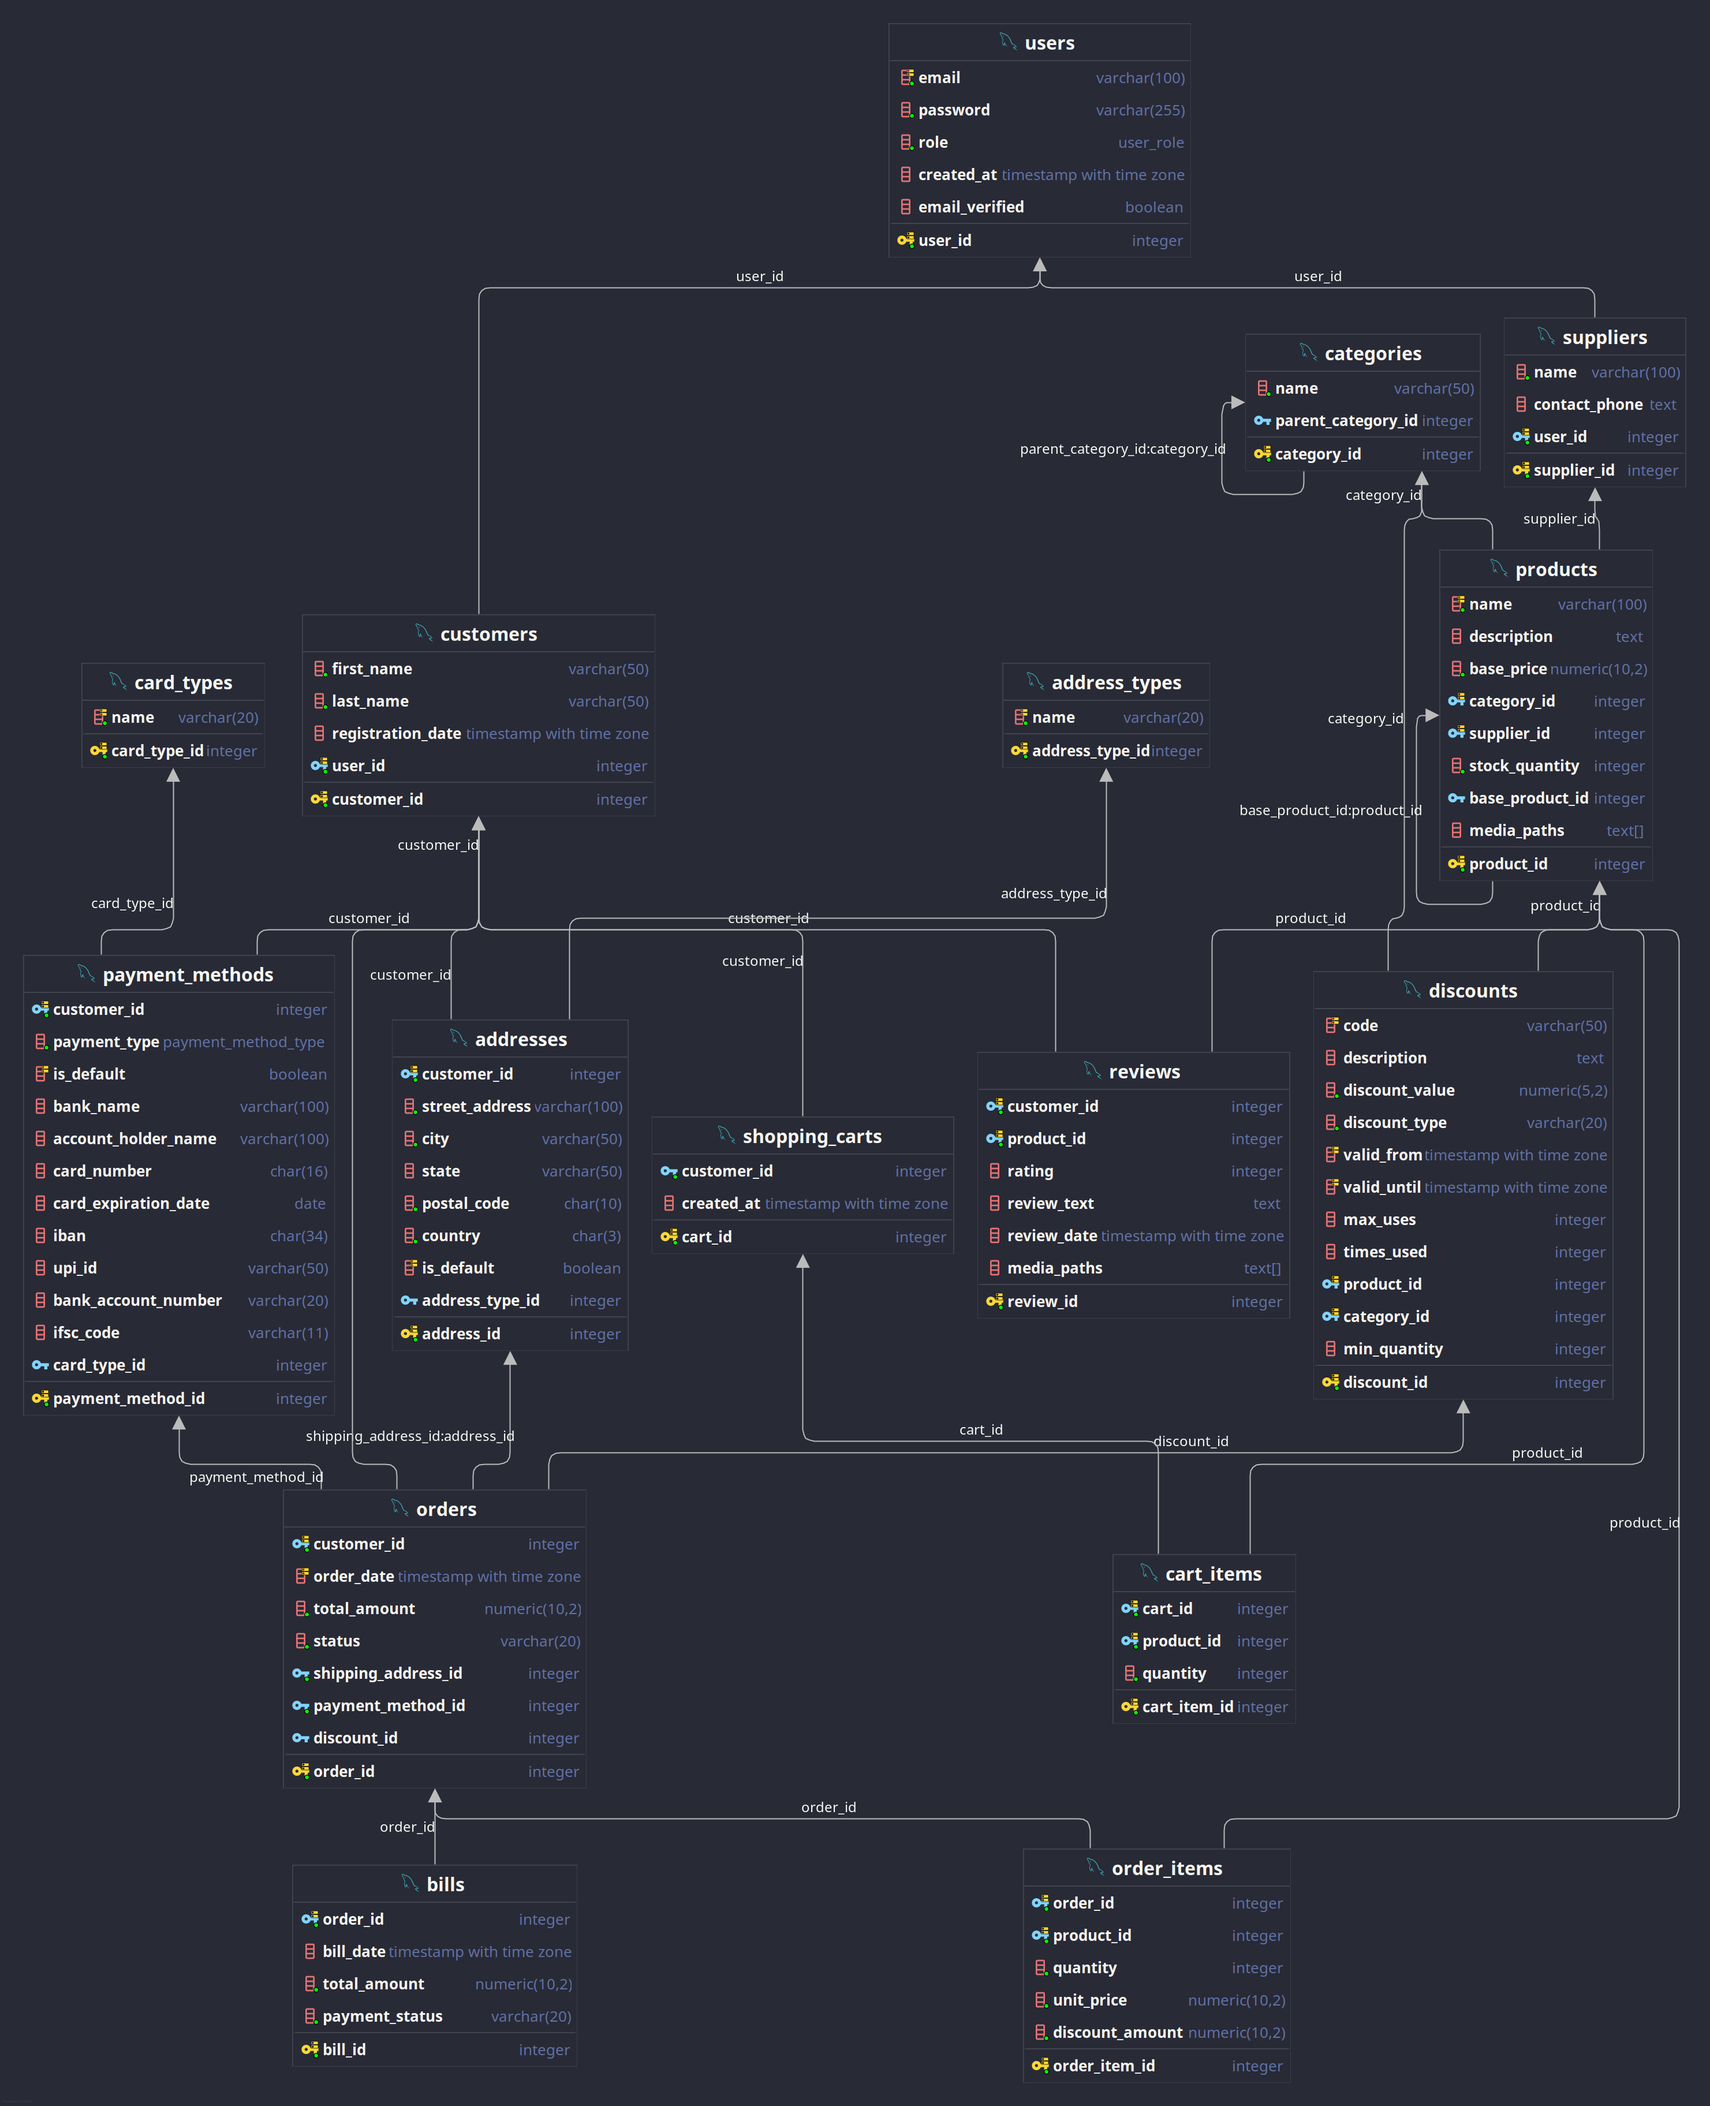
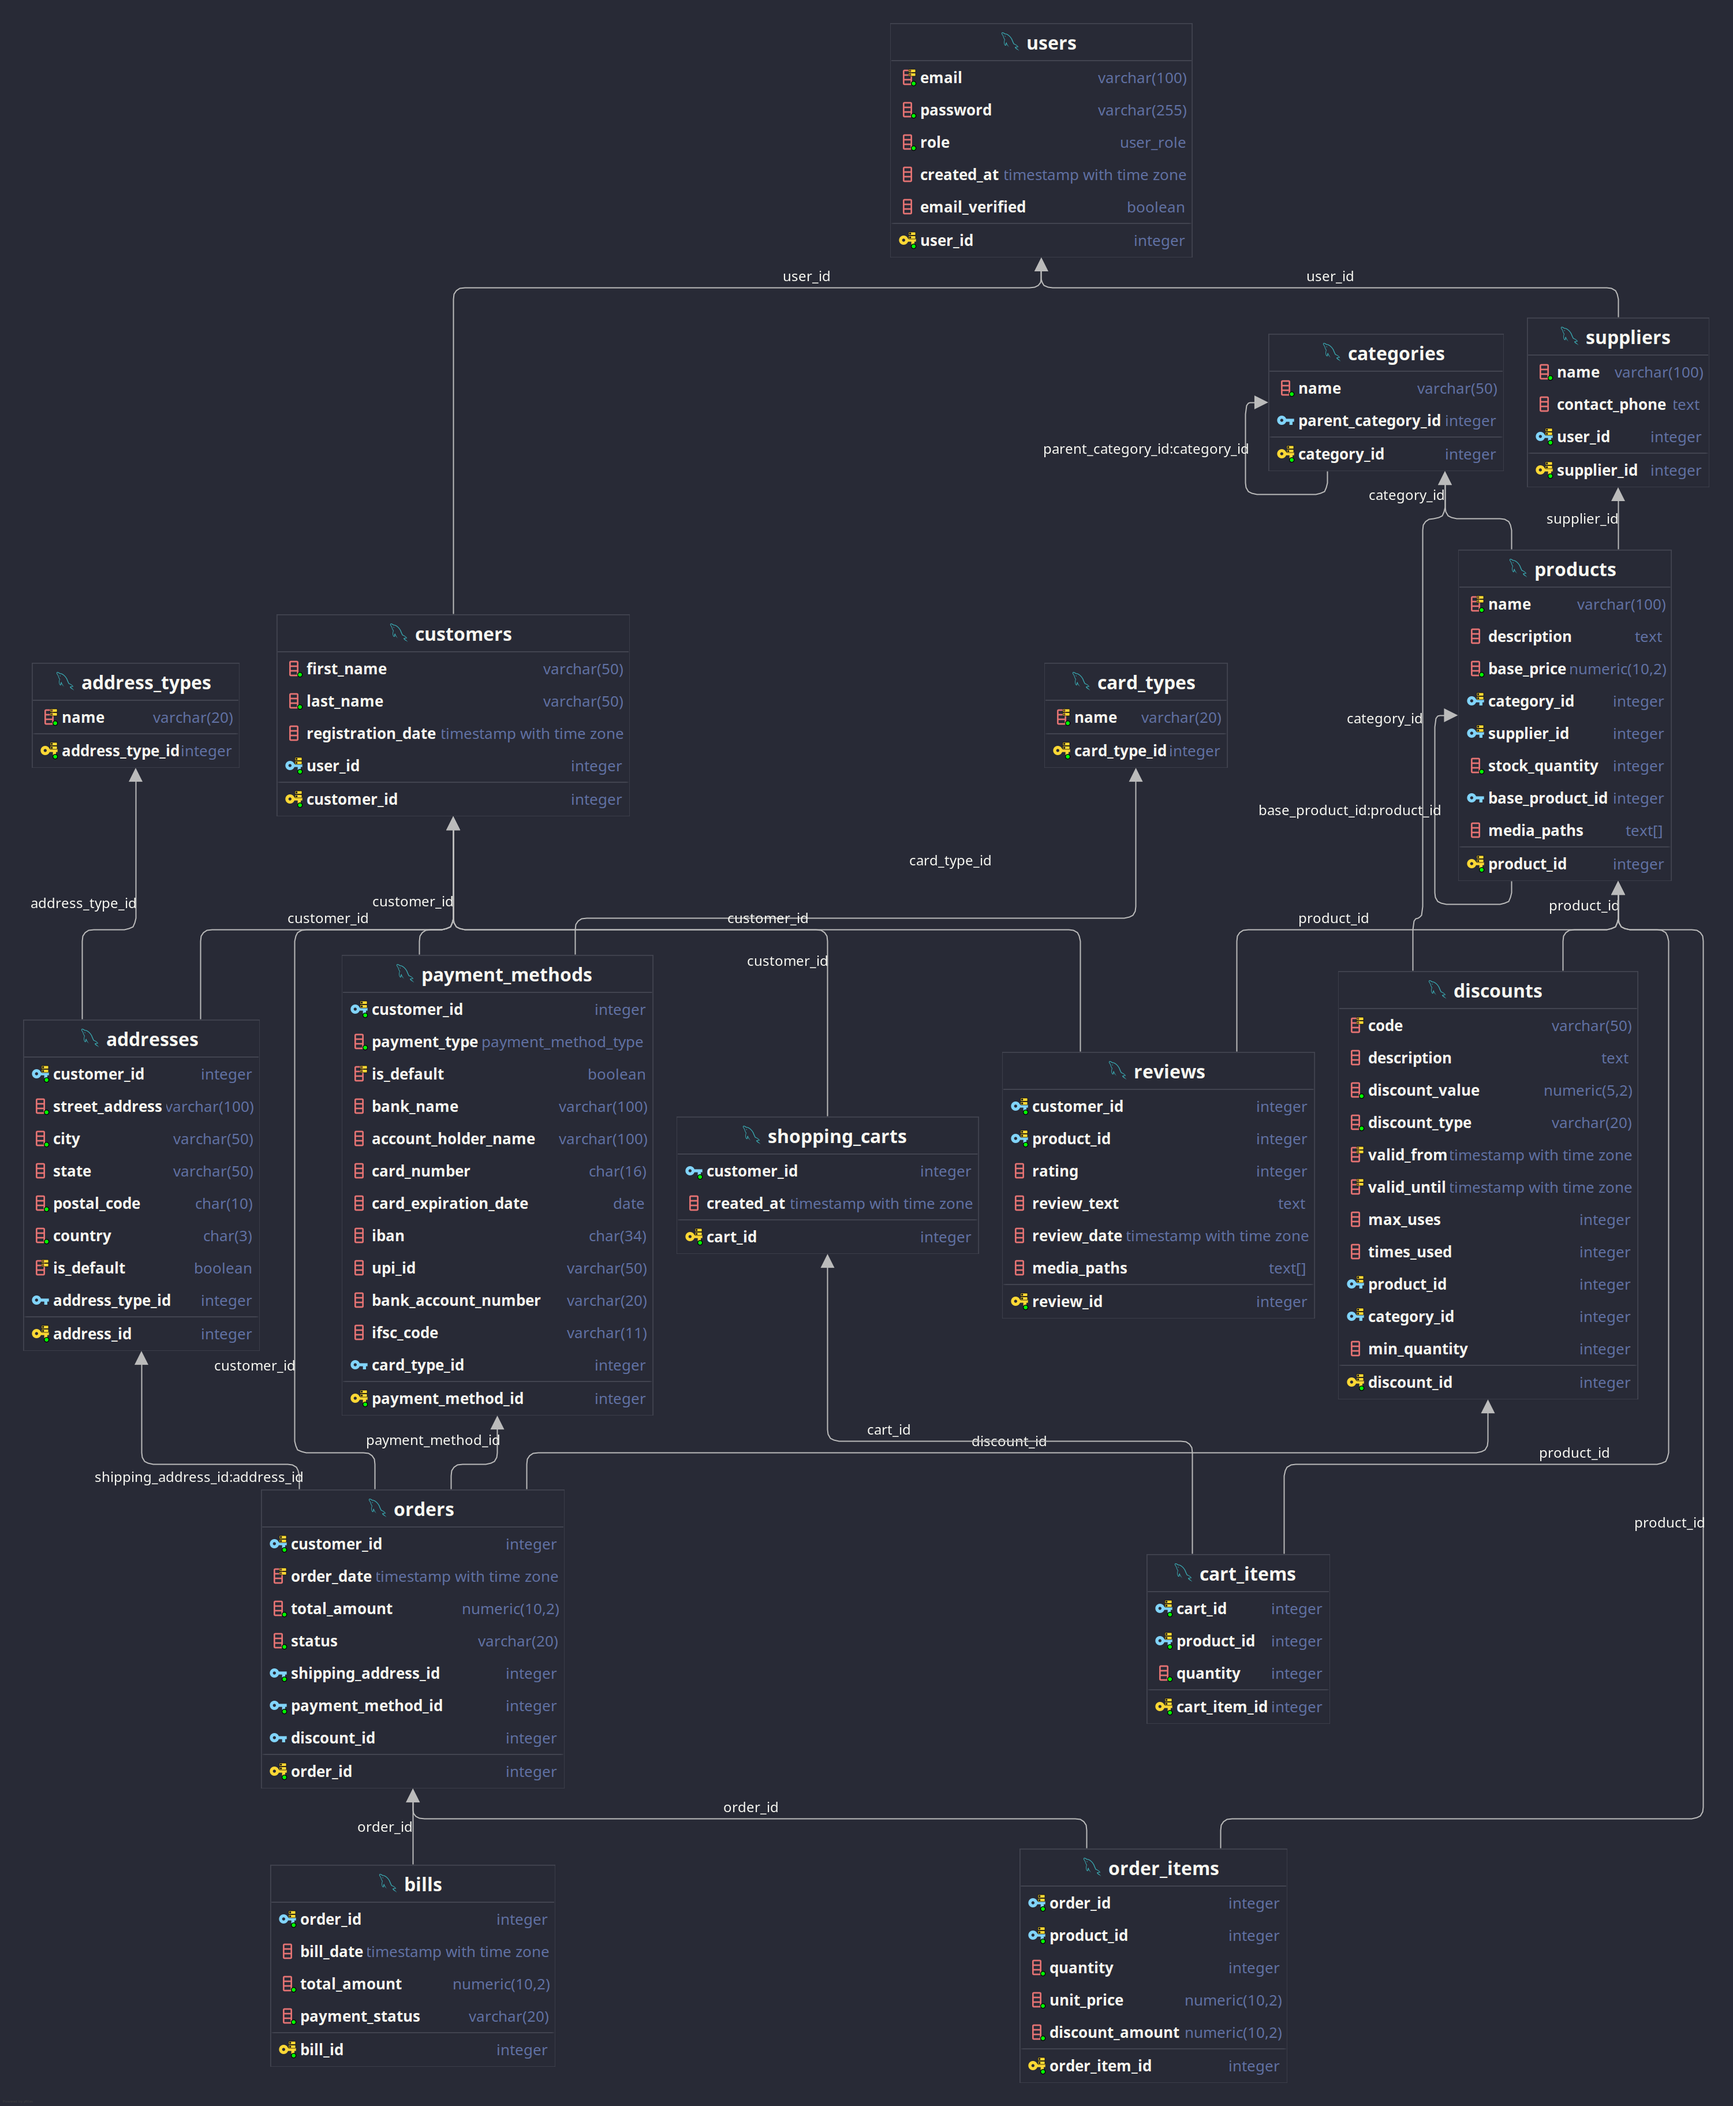
schema: minor changes to database schema

diff --git a/api-server/src/entity/customers.rs b/api-server/src/entity/customers.rs
@@ -20,7 +20,7 @@ pub enum Relation {
     Addresses,
     #[sea_orm(has_many = "super::orders::Entity")]
     Orders,
-    #[sea_orm(has_many = "super::payment_methods::Entity")]
+    #[sea_orm(has_one = "super::payment_methods::Entity")]
     PaymentMethods,
     #[sea_orm(has_many = "super::reviews::Entity")]
     Reviews,

diff --git a/api-server/src/entity/payment_methods.rs b/api-server/src/entity/payment_methods.rs
@@ -8,6 +8,7 @@ use sea_orm::entity::prelude::*;
 pub struct Model {
     #[sea_orm(primary_key)]
     pub payment_method_id: i32,
+    #[sea_orm(unique)]
     pub customer_id: i32,
     pub payment_type: PaymentMethodType,
     pub is_default: Option<bool>,
